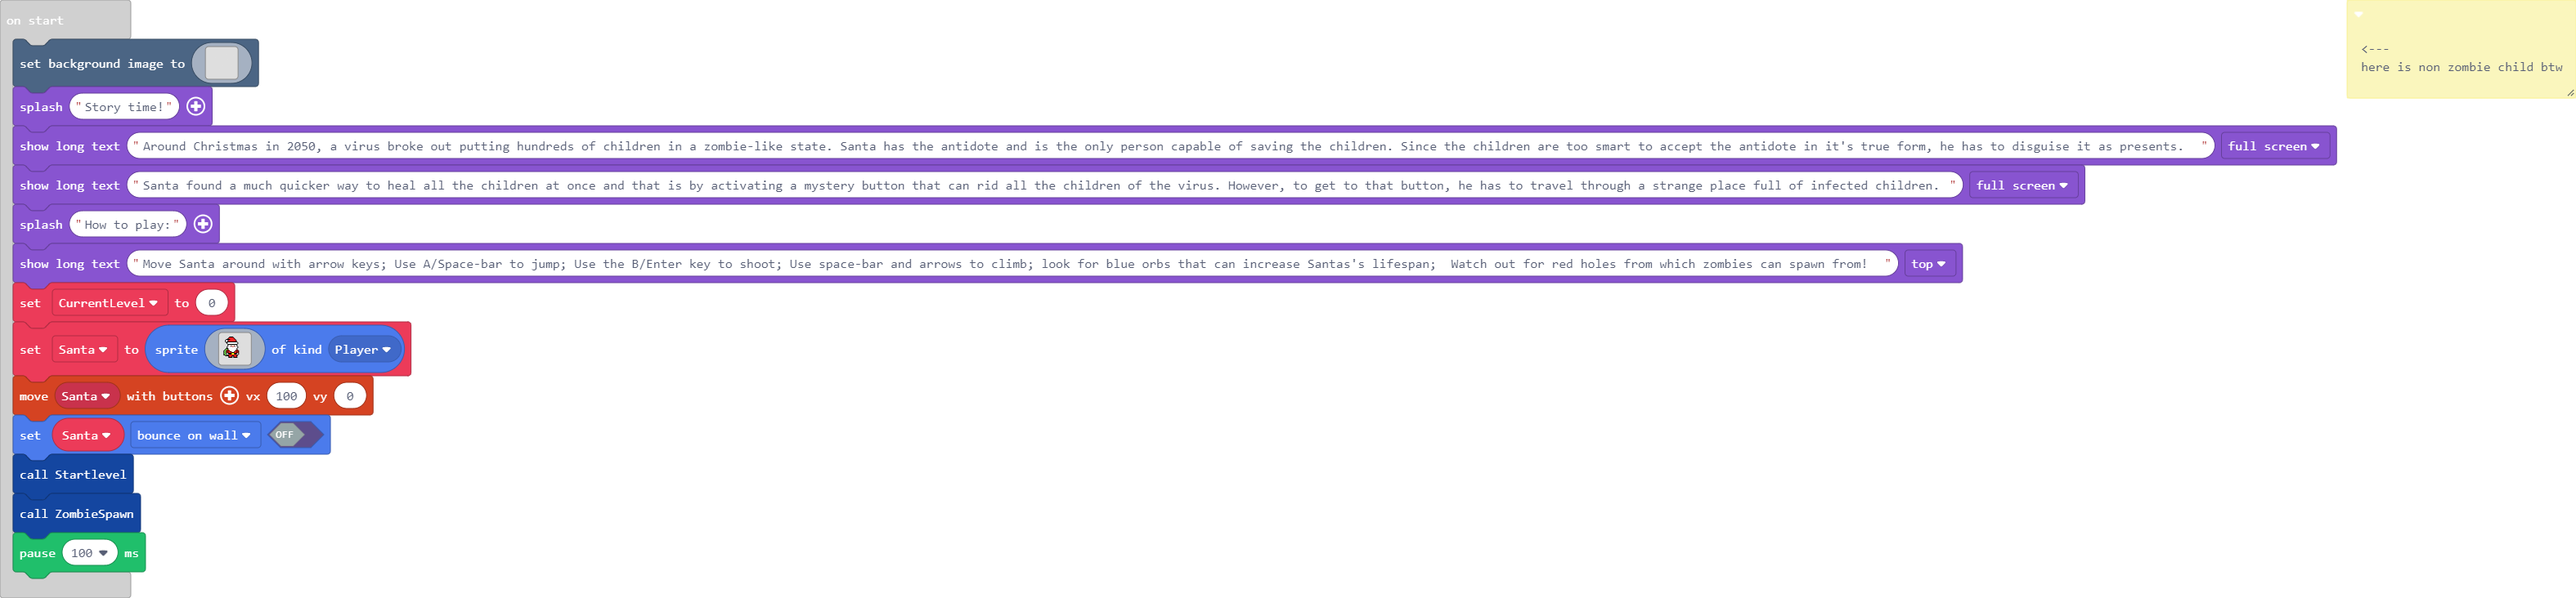
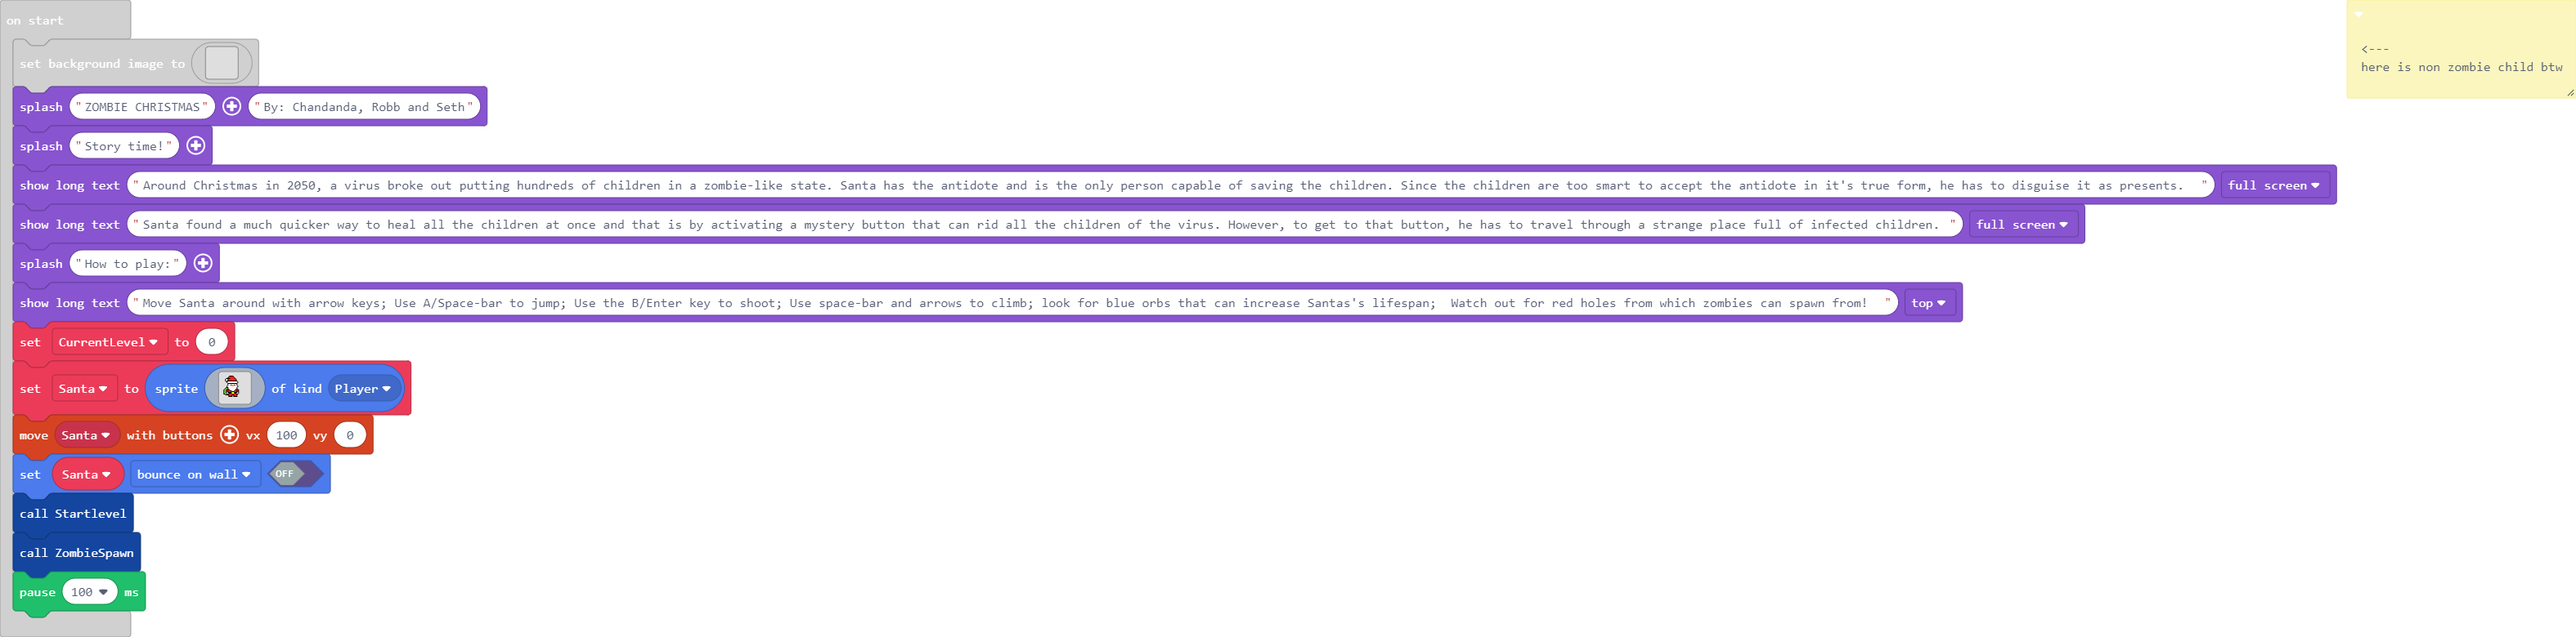
Update main.blocks, main.ts

Changed region(s): [[0.0, 0.0601, 0.9333, 0.9617], [0.9022, 0.1503, 1.0, 0.1803], [0.9022, 0.0902, 0.9956, 0.1202]]

diff --git a/main.ts b/main.ts
@@ -772,6 +772,7 @@ scene.setBackgroundImage(img`
 . . . . . . . . . . . . . . . . . . . . . . . . . . . . . . . . . . . . . . . . . . . . . . . . . . . . . . . . . . . . . . . . . . . . . . . . . . . . . . . . . . . . . . . . . . . . . . . . . . . . . . . . . . . . . . . . . . . . . . . . . . . . . . . . . . . . . . . . . . . . . . . . . . . . . . . . . . . . . . . . 
 . . . . . . . . . . . . . . . . . . . . . . . . . . . . . . . . . . . . . . . . . . . . . . . . . . . . . . . . . . . . . . . . . . . . . . . . . . . . . . . . . . . . . . . . . . . . . . . . . . . . . . . . . . . . . . . . . . . . . . . . . . . . . . . . . . . . . . . . . . . . . . . . . . . . . . . . . . . . . . . . 
 `)
+game.splash("ZOMBIE CHRISTMAS", "By: Chandanda, Robb and Seth")
 game.splash("Story time!")
 game.showLongText("Around Christmas in 2050, a virus broke out putting hundreds of children in a zombie-like state. Santa has the antidote and is the only person capable of saving the children. Since the children are too smart to accept the antidote in it's true form, he has to disguise it as presents.  ", DialogLayout.Full)
 game.showLongText("Santa found a much quicker way to heal all the children at once and that is by activating a mystery button that can rid all the children of the virus. However, to get to that button, he has to travel through a strange place full of infected children. ", DialogLayout.Full)
